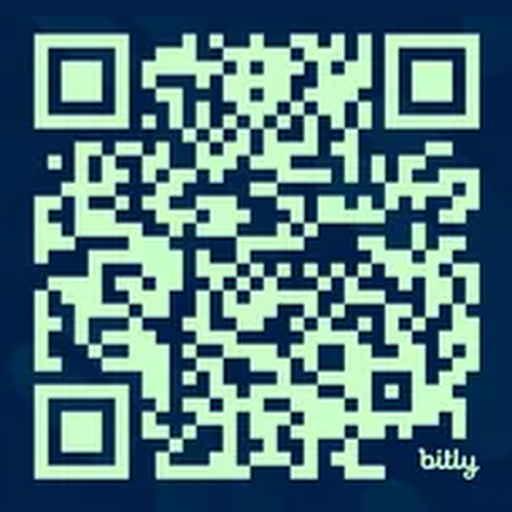
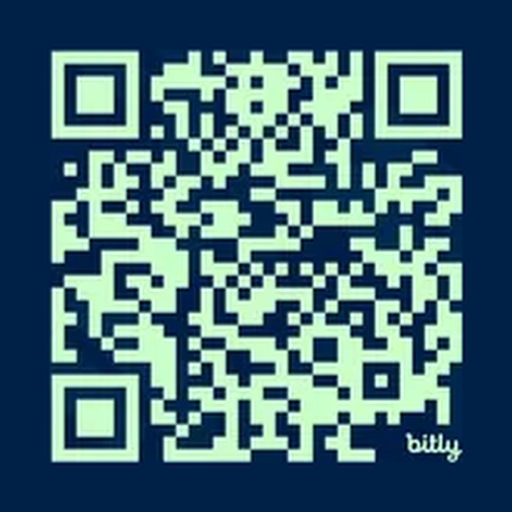
Use centered mint Bitly QR asset

diff --git a/src/index.css b/src/index.css
@@ -2371,7 +2371,8 @@ button {
   border: 1px solid rgba(61, 184, 255, 0.25);
   box-shadow: 0 16px 40px rgba(0, 0, 0, 0.35);
   display: block;
-  background: #c8f5d8;
+  background: #002046;
+  object-fit: contain;
 }
 
 .register-qr__caption {
